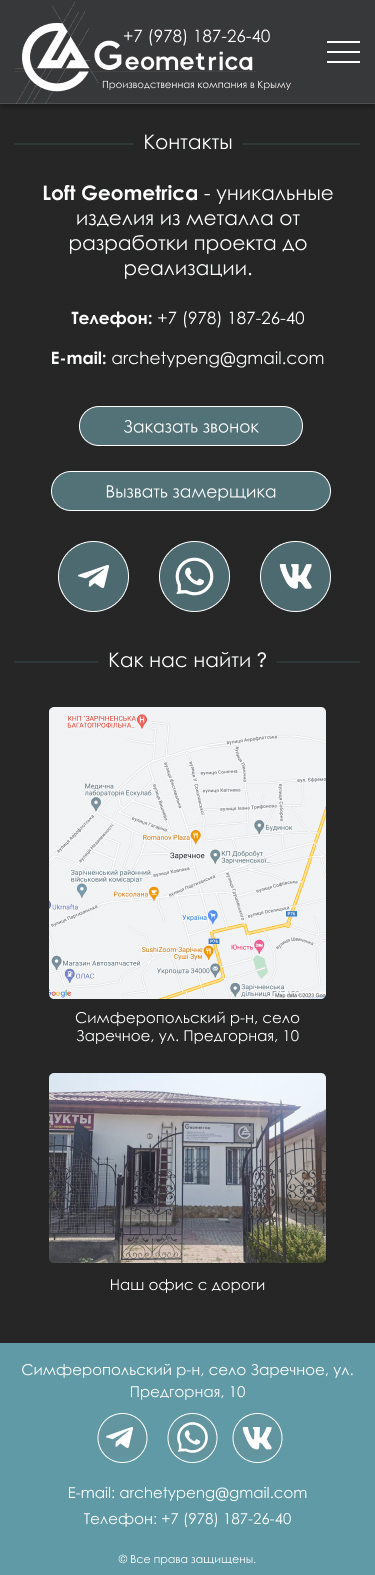
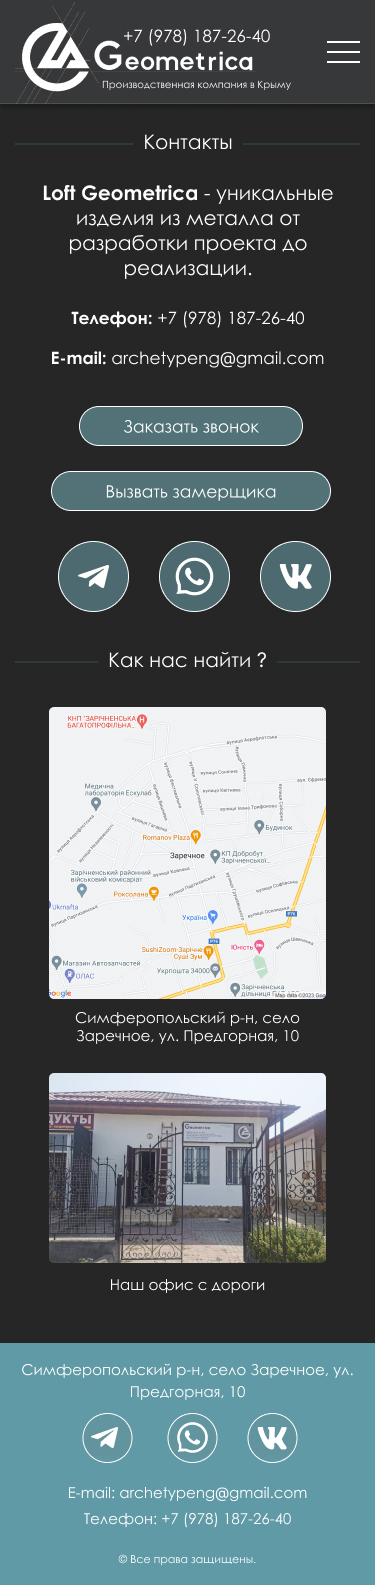
page works mob done

diff --git a/works.html b/works.html
@@ -12,11 +12,11 @@
         <nav class="nav-panel">
             <div class="nav__logo-wrap">
                 <div class="phone-wrap">
-                    <a href="tel:+79781872640" class="link txt head-tel">+7 (978) 187-26-40</a>
+                    <a href="tel:+79786048099" class="link txt head-tel">+7 (978) 604-80-99</a>
                 </div>
                 <div class="logo-wrap">
                     <a href="index.html" class="txt link">                                           
-                        <img src="logotips/logo.png" alt="logotip" class="logo">
+                        <img src="./images/logotips/logo.png" alt="logotip" class="logo">
                     </a>
                 </div>
                 <div class="nav__title-container">
@@ -36,15 +36,23 @@
                         <span class="bar"></span>
                     </div>
                 </div>
+            </div>
+            <div class="menu-wrap">
+                <ul class="menu">
+                    <li><a href="index.html" class="link link-main">Главная</a></li>                        
+                    <li><a href="services.html" class="link link-services">Услуги</a></li>            
+                    <li><a href="works.html" class="link link-works">Наши работы</a></li>
+                    <li><a href="contacts.html" class="link link-contacts">Контакты</a></li>
+                </ul>
             </div>        
         </nav>
     </header>
-    <main class="main">
-        <section class="section-main">
+    <main class="main sr-main">
+        <section class="section-main ow-section-main">
             <div class="main__wrapper">
                 <div class="head works-header page-main-head">
                     <span class="title-bar"></span>
-                        <h1 class="title txt section-list-title">Наши работы</h1>
+                        <h1 class="title txt section-list-title ser-h1">Наши работы</h1>
                     <span class="title-bar"></span>
                 </div>
                 <div class="main__description">
@@ -53,33 +61,38 @@
                     </span>
                 </div>
             </div>
-            <div class="market-adv-wrapper">
+            <div class="market-adv-wrapper ow-market-adv-wrapper">
                 <ul class="list market-adv-list">
-                    <li class="adv-item__conteiner item-works">
-                        <div class="adv-sm__wrap"><img src="./logotips/pencil-page.svg" alt="3D Визуализация" class="adv-log"></div>
-                        <div class="adv-lg__wrap"><span class="txt av-text-md">Мы проектируем конструкции любой сложности. Мы знаем, как создать уют в любой комнате либо квартире.</span></div>
+                    <li class="adv-item__conteiner item-works ow-item-works">
+                        <div class="adv-sm__wrap ow-adv-sm__wrap"><img src="./images/logotips/pencil-page.svg" alt="3D Визуализация" class="adv-log"></div>
+                        <div class="adv-lg__wrap"><span class="txt av-text-md ow-av-text-md">Мы проектируем конструкции любой сложности. Мы знаем, как создать уют в любой комнате либо квартире.</span></div>
                     </li>
-                    <li class="adv-item__conteiner item-works">
-                        <div class="adv-sm__wrap"><img src="./logotips/reload-logo.svg" alt="3D Визуализация" class="adv-log"></div>
-                        <div class="adv-lg__wrap"><span class="txt av-text-md">Мы используем современные методы обработки металла, порашковую высокотемпературную покраску и специализированную фурнитуру. Качественный продукт - это наш второй слоган.</span></div>
+                    <li class="adv-item__conteiner item-works ow-item-works">
+                        <div class="adv-sm__wrap ow-adv-sm__wrap"><img src="./images/logotips/reload-logo.svg" alt="3D Визуализация" class="adv-log"></div>
+                        <div class="adv-lg__wrap"><span class="txt av-text-md ow-av-text-md">Мы используем современные методы обработки металла, порашковую высокотемпературную покраску и специализированную фурнитуру. Качественный продукт - это наш второй слоган.</span></div>
                     </li>
-                    <li class="adv-item__conteiner item-works">
-                        <div class="adv-sm__wrap"><img src="./logotips/paper-plane.svg" alt="3D Визуализация" class="adv-log"></div>
-                        <div class="adv-lg__wrap"><span class="txt av-text-md">Мы заботимся обо всем, что связано с проектом: Быстрая и безопасная доставка, правильный и быстрый монтаж - это про нас.</span></div>
+                    <li class="adv-item__conteiner item-works ow-item-works">
+                        <div class="adv-sm__wrap ow-adv-sm__wrap"><img src="./images/logotips/paper-plane.svg" alt="3D Визуализация" class="adv-log"></div>
+                        <div class="adv-lg__wrap"><span class="txt av-text-md ow-av-text-md">Мы заботимся обо всем, что связано с проектом: Быстрая и безопасная доставка, правильный и быстрый монтаж - это про нас.</span></div>
                     </li>                    
                 </ul>
             </div>
-            <div class="maden-wrap maden-wrap__works">            
+            <div class="maden-wrap maden-wrap__works ow-maden-wrap__works">            
                 <ul class="list worked-list">
-                    <li class="item work-item">
+                    <li class="item work-item ow-work-item">
                         <a href="#" class="link">                            
                             <img src="./images/works-slider/lestnica-alushta.jpg" alt="Шкаф в стиле лофт" class="img work-image img-works">
-                            <img src="./logotips/link-vector.svg" alt="Переход" class="go-link go-link-abs">
-                        </a>
+                            <img src="./images/logotips/link-vector.svg" alt="Переход" class="go-link go-link-abs ow-go-link-abs">
+                            <div class="title-wrap ow-title-wrap">
+                                <a href="#" class="txt link link-flex">
+                                    <div class="service-sm-wrapper ow-service-sm-wrapper"><h3 class="title txt item-title ow-sp-title">Лестница "..." г. Алушта</h3></div>                                    
+                                </a>
+                            </div>    
+                        </a>                         
                     </li>
                 </ul>
             </div> 
-            <div class="head__forms-wrap forms-services">
+            <div class="head__forms-wrap ow-forms forms-services">
                 <form class="form form-service">
                     <button class="btn btn-first">Заказать звонок</button>
                 </form>
@@ -89,34 +102,49 @@
             </div>               
         </section>        
     </main>
-    <footer class="footer footer-services">
+    <footer class="footer">
         <div class="footer-wrapper">
             <div class="footer-header-wrap">
                 <span class="txt footer-txt maps-desc-text">Симферопольский р-н, село Заречное, ул. Предгорная, 10</span>
+                <a href="mailto:archetypeng@gmail.com" class="link txt email email-desktop mob-dn tab-dn">E-mail: archetypeng@gmail.com</a>
+            </div>
+            <div class="foot__menu-wrap mob-dn tab-dn">
+                <ul class="foot__menu-list">
+                    <li class="foot__menu-item"><a href="index.html" class="link txt foot__link">Главная</a></li>
+                    <li class="foot__menu-item"><a href="works.html" class="link txt foot__link">Наши Работы</a></li>
+                    <li class="foot__menu-item"><a href="services.html" class="link txt foot__link">Услуги</a></li>
+                    <li class="foot__menu-item"><a href="contacts.html" class="link txt foot__link">Контакты</a></li>
+                </ul>                
             </div>
             <div class="footer-socials-wrap">
                 <ul class="list social-list">
-                    <li class="social"><img src="./logotips/tele-logo.svg" alt="Логотип телеграмм" class="logo-sm"></li>
-                    <li class="social social-center"><img src="./logotips/whatsapp-logo.svg" alt="Логотип whatsapp" class="logo-sm"></li>
-                    <li class="social"><img src="./logotips/vk-logo.svg" alt="Логотип вконтакте" class="logo-sm"></li>
+                    <li class="social"><img src="./images/logotips/tele-logo.svg" alt="Логотип телеграмм" class="logo-sm"></li>
+                    <li class="social social-center"><img src="./images/logotips/whatsapp-logo.svg" alt="Логотип whatsapp" class="logo-sm"></li>
+                    <li class="social"><img src="./images/logotips/vk-logo.svg" alt="Логотип вконтакте" class="logo-sm"></li>
                 </ul>
+                <div class="foot__tel-wrap mob-dn tab-dn">
+                    <a href="tel:+79786048099" class="link txt tel foot__tel-desktop">Телефон: +7 (978) 604-80-99</a>
+                </div>
             </div>
             <div class="footer-contacts-list-wrap">                
                 <div class="contact-item-wrap">
                     <a href="mailto:archetypeng@gmail.com" class="link txt email">E-mail: archetypeng@gmail.com</a>
                 </div>
                 <div class="contact-item-wrap contact-phone-wrap">
-                    <a href="tel:+79781872640" class="link txt tel">Телефон: +7 (978) 187-26-40</a>
-                </div>
+                    <a href="tel:+79786048099" class="link txt tel">Телефон: +7 (978) 604-80-99</a>
+                </div>                
             </div>
             <div class="contact-item-wrap footer-rights-wrap">
-                <span class="txt txt-sm">
-                    &copy; Все права защищены
-                </span>
+                <div class="contact-item-wrap contact-phone-company">
+                    <span class="link txt tel">ООО "ТИВЕКО"</a>
+                    <span class="txt txt-sm txt-rights">
+                        &copy; Все права защищены
+                    </span>
+                </div>                
             </div>
         </div>
     </footer>
-    <script src="./js/menuAPI.js"></script>
-    <script src="./js/popupAPI.js"></script>
+   <script src="./js/menuAPI.js"></script>
+   <script src="./js/popupAPI.js"></script>
 </body>
 </html>

diff --git a/css/style.css b/css/style.css
@@ -960,12 +960,12 @@ body {
 }
 
 .sr-market-adv-wrapper {
-    margin-top: 48px;
+    margin: 48px auto 0;
 }
 
 .sr-adv-item__conteiner {
     align-items: start;
-    margin-top: 50px;
+    margin-top: 16px;
 }
 
 .sr-adv-sm__wrap {
@@ -988,6 +988,68 @@ body {
 .drawing-list, .sr-works-header {
     display: none;
 }
+
+.ow-section-main {
+    padding: 0 15px;
+}
+
+.ow-section-list-title {
+    font-size: 20px;
+}
+
+.ow-adv-sm__wrap {
+    margin-right: 10px;
+}
+
+.ow-av-text-md {
+    line-height: 1.6;
+}
+
+.ow-market-adv-wrapper {
+    margin-top: 37px;
+}
+
+.ow-item-works {
+    margin-top: 25px;
+}
+
+.ow-maden-wrap__works {
+    margin-top: 28px;
+}
+
+.ow-work-item {
+    position: relative;
+}
+
+.ow-title-wrap {
+    position: absolute;    
+    bottom: 0;
+    right: 0;
+    left: 0;
+}
+
+.ow-go-link-abs {
+    right: 7px;
+}
+
+.ow-service-sm-wrapper {
+    width: 100%;
+    display: flex;
+    justify-content: center;
+}
+
+.ow-sp-title {     
+    font-size: 15px;
+    font-weight: 700;
+    width: 120px;
+    text-align: center;
+}
+
+.ow-forms {
+    margin-top: 21px;
+}
+
+
 
  
 @media (max-width: 640px) {
@@ -1510,7 +1572,7 @@ body {
     }
 
     .sr-forms {
-        margin-top: 8px;
+        margin-top: 32px;
     }
 
     .sr-form {
